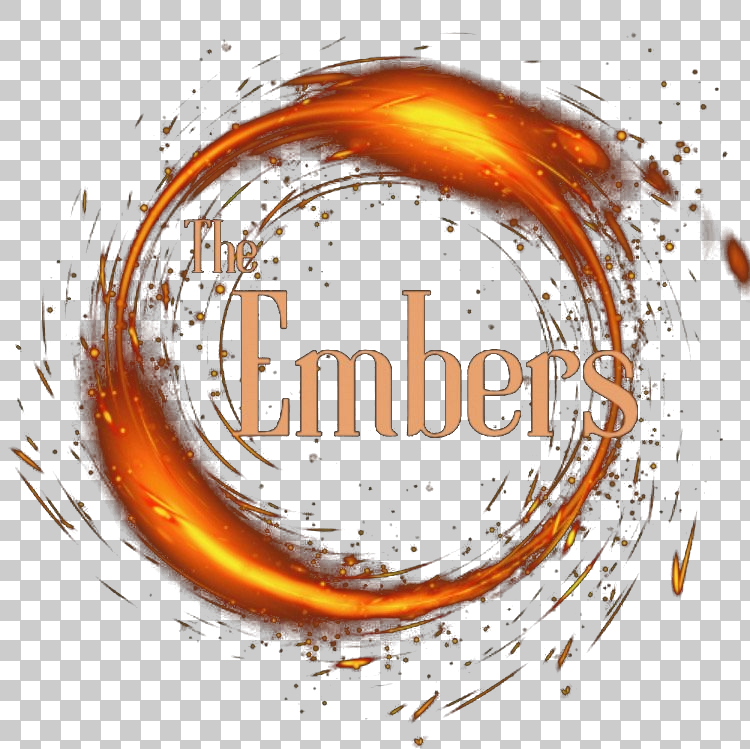
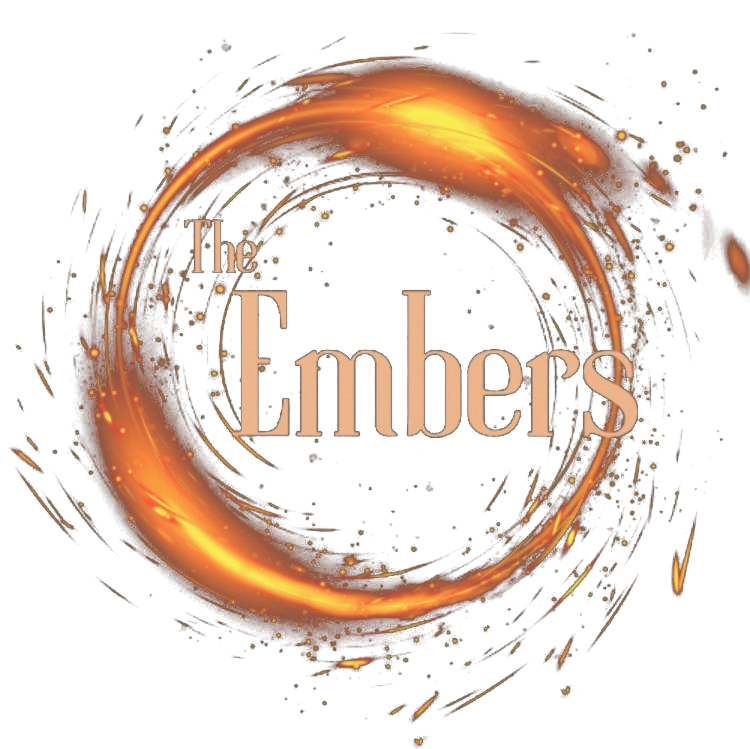
making cool intro

diff --git a/js/footer.min.js b/js/footer.min.js
@@ -1,1 +1,1 @@
-!function(){const e=`\n    <div class="container">\n\n      \x3c!-- BAND LOGO --\x3e\n      \x3c!-- Smaller, semi-transparent version of the main logo --\x3e\n      <img src="/images/embers.webp" alt="The Embers KC" class="footer-logo" width="120" height="120">\n\n      \x3c!-- SOCIAL MEDIA LINKS --\x3e\n      <div class="footer-links">\n        \x3c!-- Instagram --\x3e\n        <a href="https://www.instagram.com/the_embers_kc/" target="_blank" rel="noopener" aria-label="Instagram">\n          <svg width="20" height="20" viewBox="0 0 24 24" fill="currentColor"><path d="M12 2.163c3.204 0 3.584.012 4.85.07 3.252.148 4.771 1.691 4.919 4.919.058 1.265.069 1.645.069 4.849 0 3.205-.012 3.584-.069 4.849-.149 3.225-1.664 4.771-4.919 4.919-1.266.058-1.644.07-4.85.07-3.204 0-3.584-.012-4.849-.07-3.26-.149-4.771-1.699-4.919-4.92-.058-1.265-.07-1.644-.07-4.849 0-3.204.013-3.583.07-4.849.149-3.227 1.664-4.771 4.919-4.919 1.266-.057 1.645-.069 4.849-.069zM12 0C8.741 0 8.333.014 7.053.072 2.695.272.273 2.69.073 7.052.014 8.333 0 8.741 0 12c0 3.259.014 3.668.072 4.948.2 4.358 2.618 6.78 6.98 6.98C8.333 23.986 8.741 24 12 24c3.259 0 3.668-.014 4.948-.072 4.354-.2 6.782-2.618 6.979-6.98.059-1.28.073-1.689.073-4.948 0-3.259-.014-3.667-.072-4.947-.196-4.354-2.617-6.78-6.979-6.98C15.668.014 15.259 0 12 0zm0 5.838a6.162 6.162 0 100 12.324 6.162 6.162 0 000-12.324zM12 16a4 4 0 110-8 4 4 0 010 8zm6.406-11.845a1.44 1.44 0 100 2.881 1.44 1.44 0 000-2.881z"/></svg>\n        </a>\n        \x3c!-- Facebook --\x3e\n        <a href="https://www.facebook.com/profile.php?id=100090998160648" target="_blank" rel="noopener" aria-label="Facebook">\n          <svg width="20" height="20" viewBox="0 0 24 24" fill="currentColor"><path d="M24 12.073c0-6.627-5.373-12-12-12s-12 5.373-12 12c0 5.99 4.388 10.954 10.125 11.854v-8.385H7.078v-3.47h3.047V9.43c0-3.007 1.792-4.669 4.533-4.669 1.312 0 2.686.235 2.686.235v2.953H15.83c-1.491 0-1.956.925-1.956 1.874v2.25h3.328l-.532 3.47h-2.796v8.385C19.612 23.027 24 18.062 24 12.073z"/></svg>\n        </a>\n      </div>\n\n      \x3c!-- LEGAL LINKS --\x3e\n      <p class="footer-legal">\n        <a href="/privacy.html">Privacy Policy</a>\n      </p>\n\n      \x3c!-- COPYRIGHT --\x3e\n      \x3c!-- Year is dynamically generated using JavaScript --\x3e\n      <p class="text-sm text-muted">&copy; ${(new Date).getFullYear()} The Embers KC. All rights reserved.</p>\n\n    </div>\n  `;function n(){const n=document.getElementById("site-footer");n&&(n.innerHTML=e)}"loading"===document.readyState?document.addEventListener("DOMContentLoaded",n):n()}();
+!function(){const e=`\n    <div class="container">\n\n      \x3c!-- BAND LOGO --\x3e\n      \x3c!-- Smaller, semi-transparent version of the main logo --\x3e\n      <img src="/images/embers.png" alt="The Embers KC" class="footer-logo" width="120" height="120">\n\n      \x3c!-- SOCIAL MEDIA LINKS --\x3e\n      <div class="footer-links">\n        \x3c!-- Instagram --\x3e\n        <a href="https://www.instagram.com/the_embers_kc/" target="_blank" rel="noopener" aria-label="Instagram">\n          <svg width="20" height="20" viewBox="0 0 24 24" fill="currentColor"><path d="M12 2.163c3.204 0 3.584.012 4.85.07 3.252.148 4.771 1.691 4.919 4.919.058 1.265.069 1.645.069 4.849 0 3.205-.012 3.584-.069 4.849-.149 3.225-1.664 4.771-4.919 4.919-1.266.058-1.644.07-4.85.07-3.204 0-3.584-.012-4.849-.07-3.26-.149-4.771-1.699-4.919-4.92-.058-1.265-.07-1.644-.07-4.849 0-3.204.013-3.583.07-4.849.149-3.227 1.664-4.771 4.919-4.919 1.266-.057 1.645-.069 4.849-.069zM12 0C8.741 0 8.333.014 7.053.072 2.695.272.273 2.69.073 7.052.014 8.333 0 8.741 0 12c0 3.259.014 3.668.072 4.948.2 4.358 2.618 6.78 6.98 6.98C8.333 23.986 8.741 24 12 24c3.259 0 3.668-.014 4.948-.072 4.354-.2 6.782-2.618 6.979-6.98.059-1.28.073-1.689.073-4.948 0-3.259-.014-3.667-.072-4.947-.196-4.354-2.617-6.78-6.979-6.98C15.668.014 15.259 0 12 0zm0 5.838a6.162 6.162 0 100 12.324 6.162 6.162 0 000-12.324zM12 16a4 4 0 110-8 4 4 0 010 8zm6.406-11.845a1.44 1.44 0 100 2.881 1.44 1.44 0 000-2.881z"/></svg>\n        </a>\n        \x3c!-- Facebook --\x3e\n        <a href="https://www.facebook.com/profile.php?id=100090998160648" target="_blank" rel="noopener" aria-label="Facebook">\n          <svg width="20" height="20" viewBox="0 0 24 24" fill="currentColor"><path d="M24 12.073c0-6.627-5.373-12-12-12s-12 5.373-12 12c0 5.99 4.388 10.954 10.125 11.854v-8.385H7.078v-3.47h3.047V9.43c0-3.007 1.792-4.669 4.533-4.669 1.312 0 2.686.235 2.686.235v2.953H15.83c-1.491 0-1.956.925-1.956 1.874v2.25h3.328l-.532 3.47h-2.796v8.385C19.612 23.027 24 18.062 24 12.073z"/></svg>\n        </a>\n      </div>\n\n      \x3c!-- LEGAL LINKS --\x3e\n      <p class="footer-legal">\n        <a href="/privacy.html">Privacy Policy</a>\n      </p>\n\n      \x3c!-- COPYRIGHT --\x3e\n      \x3c!-- Year is dynamically generated using JavaScript --\x3e\n      <p class="text-sm text-muted">&copy; ${(new Date).getFullYear()} The Embers KC. All rights reserved.</p>\n\n    </div>\n  `;function n(){const n=document.getElementById("site-footer");n&&(n.innerHTML=e)}"loading"===document.readyState?document.addEventListener("DOMContentLoaded",n):n()}();

diff --git a/index.html b/index.html
@@ -97,7 +97,7 @@ THE EMBERS KC - Official Website
          PRELOAD CRITICAL ASSETS
          Improves perceived performance by loading key images early
          =================================================================== -->
-    <link rel="preload" href="/images/embers.webp" as="image" />
+    <link rel="preload" href="/images/embers.png" as="image" />
     <link rel="preload" href="/images/theEmbers_wordmark.svg" as="image" />
 
     <!-- ===================================================================
@@ -115,7 +115,7 @@ THE EMBERS KC - Official Website
     <div id="ember-intro" aria-hidden="true">
       <canvas id="ember-intro-canvas"></canvas>
       <div class="intro-glow"></div>
-      <img src="/images/embers.webp" alt="" class="intro-logo" />
+      <img src="/images/embers.png" alt="" class="intro-logo" />
     </div>
 
     <!-- ===================================================================
@@ -144,7 +144,7 @@ THE EMBERS KC - Official Website
          =================================================================== -->
     <section class="hero" id="hero">
       <div class="hero-content">
-        <img src="/images/embers.webp" alt="The Embers KC" class="band-logo" width="320" height="320" />
+        <img src="/images/embers.png" alt="The Embers KC" class="band-logo" width="320" height="320" />
         <p class="tagline">Kansas City cover band bringing a whole new vibe to your good time.</p>
         <div class="cta-buttons">
           <a href="#contact" class="button button-primary button-lg">Book Us</a>

diff --git a/privacy.html b/privacy.html
@@ -117,7 +117,7 @@ THE EMBERS KC - Privacy Policy
     <!-- Simple header -->
     <header class="simple-header">
       <a href="/">
-        <img src="/images/embers.webp" alt="The Embers KC - Back to Home" />
+        <img src="/images/embers.png" alt="The Embers KC - Back to Home" />
       </a>
     </header>
 
@@ -184,7 +184,7 @@ THE EMBERS KC - Privacy Policy
 
     <!-- Footer -->
     <footer class="site-footer">
-      <img src="/images/embers.webp" alt="The Embers KC" class="footer-logo" />
+      <img src="/images/embers.png" alt="The Embers KC" class="footer-logo" />
       <p class="text-sm text-muted">&copy; <span id="year"></span> The Embers KC. All rights reserved.</p>
     </footer>
     <script>document.getElementById('year').textContent = new Date().getFullYear();</script>

diff --git a/js/footer.js b/js/footer.js
@@ -32,7 +32,7 @@
 
       <!-- BAND LOGO -->
       <!-- Smaller, semi-transparent version of the main logo -->
-      <img src="/images/embers.webp" alt="The Embers KC" class="footer-logo" width="120" height="120">
+      <img src="/images/embers.png" alt="The Embers KC" class="footer-logo" width="120" height="120">
 
       <!-- SOCIAL MEDIA LINKS -->
       <div class="footer-links">
